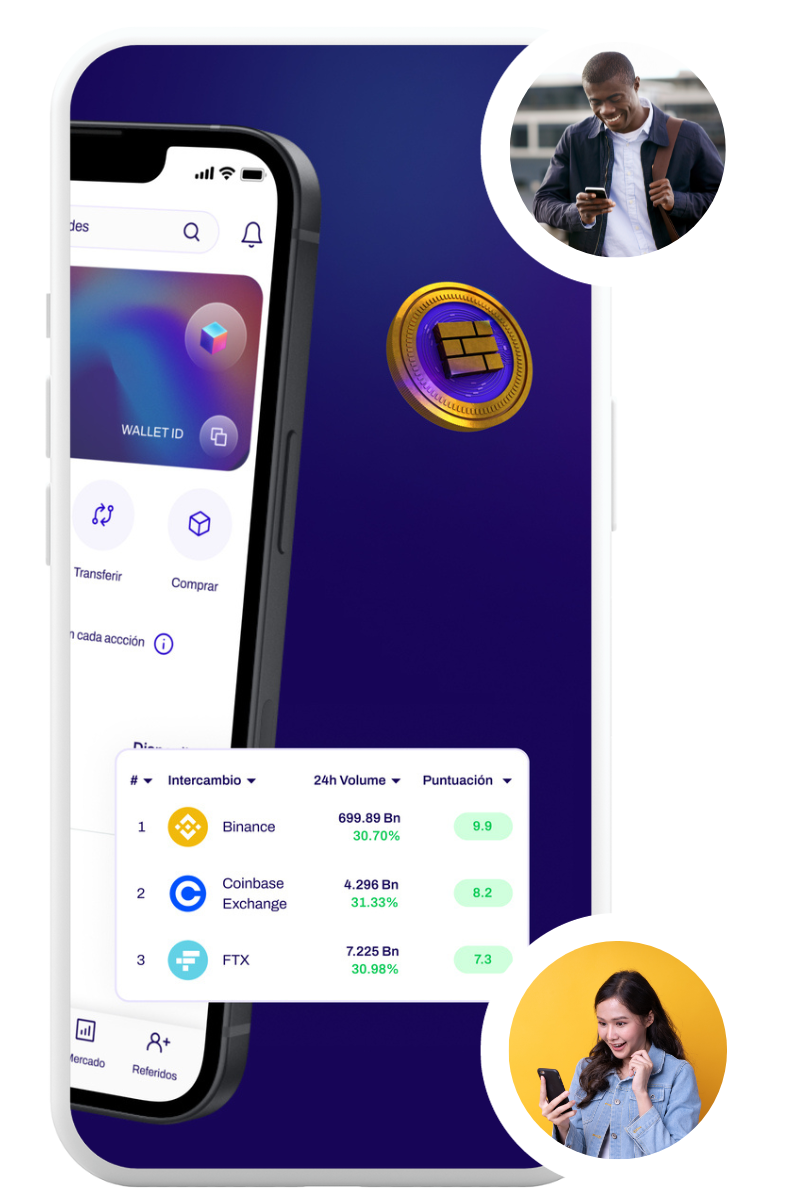
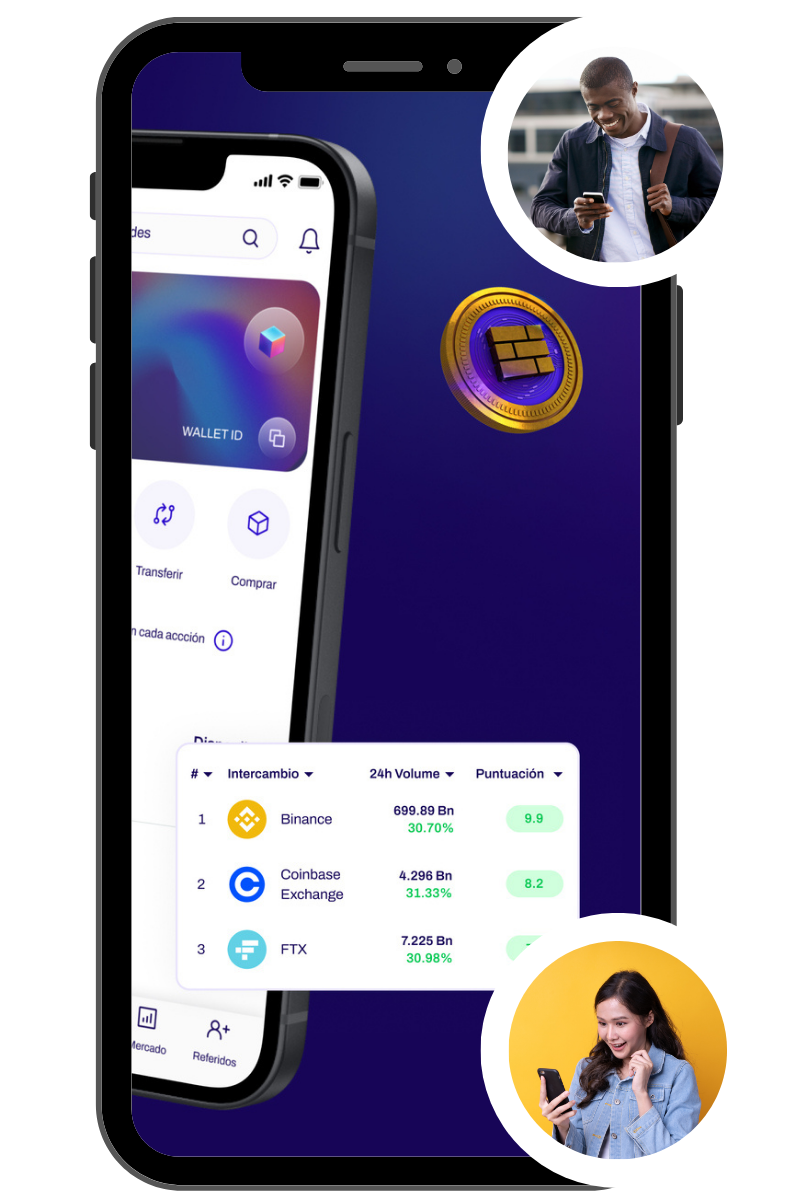
Adding some modifications and new copys

diff --git a/src/sections/home/Ecosystem.tsx b/src/sections/home/Ecosystem.tsx
@@ -39,11 +39,6 @@ const Ecosystem = () => {
         <div className="flex flex-col lg:flex-row gap-20">
           <div className="flex-1 flex flex-col md:flex-row gap-12">
             <div className="flex flex-col justify-center text-white gap-5 z-10">
-              <TypingText
-                element="h3"
-                title="¿Conoces el poder de Blockchain?"
-                textStyles="text-lg sm:text-2xl flex flex-wrap"
-              />
               <FadeText heading="h2" textStyles="" delay={0} direction="right">
                 Nuestro Ecosistema
               </FadeText>
@@ -53,11 +48,10 @@ const Ecosystem = () => {
               >
                 <p>
                   Ebloqs hace todo mas sencillo: accede a las redes más seguras
-                  y fáciles de usar con el costo más bajo de transacción.
+                  y fáciles de usar con bajo costo de transacción. Utilizamos tecnología Blockchain sobre la red Ethereum y subred Polygon.
                 </p>
                 <p>
-                  ¿Tienes conocimiento del universo Crypto? ¡No hay problema!
-                  Haz parte de proyectos en diferentes industrias como las
+                  Forma parte de proyectos en diferentes industrias como
                   bienes raíces, hotelería y turismo, tecnología, automotriz,
                   música, arte y NFTs ¡Entre muchos más!.
                 </p>
@@ -86,11 +80,11 @@ const Ecosystem = () => {
               className="gradient-01"
             />
             <Image
-              src="/images/mockup/6.png"
+              src="/images/mockup/5.png"
               alt="phone"
-              width={400}
-              height={400}
-              className="z-20 w-1/2"
+              width={2500}
+              height={2500}
+              className="z-20 w-[60%]"
             />
 
             <motion.div
@@ -99,7 +93,7 @@ const Ecosystem = () => {
               transition={{ duration: 1 }}
               viewport={{ once: false, amount: 0.9 }}
               style={{ y }}
-              className="absolute right-32 z-20"
+              className="absolute right-36 z-20"
             >
               <Image
                 src={
@@ -136,7 +130,7 @@ const Ecosystem = () => {
               transition={{ duration: 1 }}
               viewport={{ once: false, amount: 0.9 }}
               style={{ y }}
-              className="absolute left-12 top-52 rounded-md bg-[#151a38] bg-opacity-70 flex flex-col pr-12 pl-4 py-2 z-20"
+              className="absolute left-8 top-52 rounded-md bg-[#151a38] bg-opacity-70 flex flex-col pr-12 pl-4 py-2 z-20"
             >
               <Image
                 src={

diff --git a/src/sections/home/ProblemSolution.tsx b/src/sections/home/ProblemSolution.tsx
@@ -12,7 +12,7 @@ import { AiOutlineAlert, AiOutlineBulb } from "react-icons/ai";
 import ecoImg from "public/images/mockup/3.png";
 import { fadeIn, staggerContainer } from "@/utils/animations/motion";
 import blockchain from "public/images/fondo.png";
-import phone from "public/images/mockup/5.png";
+import phone from "public/images/mockup/6.png";
 
 const ProblemSolution = () => {
   const scrollRef = useRef<HTMLDivElement>(null);
@@ -83,12 +83,6 @@ const ProblemSolution = () => {
                   inversionistas multiplicar sus ganancias.
                 </p>
               </li>
-              <li>
-                <p>
-                  Las fuentes de financiamiento cada vez son más limitadas y
-                  costosas
-                </p>
-              </li>
             </ul>
           </section>
         </div>
@@ -105,12 +99,12 @@ const ProblemSolution = () => {
         </motion.div>
         <motion.div
           variants={fadeIn("up", "tween", 0.5, 1)}
-          className="absolute w-1/2"
+          className="absolute w-[45%]"
         >
           <Image
             src={phone}
-            width={1000}
-            height={1000}
+            width={900}
+            height={900}
             alt="phone"
             className="rotate-[5deg]"
           />
@@ -121,7 +115,7 @@ const ProblemSolution = () => {
           transition={{ duration: 1 }}
           style={{ y }}
           viewport={{ once: false, amount: 0.9 }}
-          className="absolute left-40 top-5"
+          className="absolute left-40"
         >
           <Image src={personOne} width={150} height={20} alt="personPhone" />
         </motion.div>

diff --git a/src/utils/constants/projects.js b/src/utils/constants/projects.js
@@ -2,28 +2,28 @@ export const projects = [
     {
         id: 1,
         title: 'NFTs Verde 70',
-        description: 'La reconocida banda de rock  ecuatoriana estrena sus nuevos coleccionables digitales ¡Adquiérelos ahora!',
+        description: 'Reconocida banda de rock ecuatoriana ingresa a la WEB3 con sus NFTs coleccionables. ¡Adquiérelos con beneficios extras en la etapa de Whitelist!',
         image: "/images/verde70.jpeg",
-        investors: 24,
-        goal: '10.000 USD',
+        investors: 85,
+        goal: '/',
         animation: 0.5,
     },
     {
         id: 2,
         title: 'Embassy Suites by Hilton, Guyana',
-        description: 'El yacimiento de grandes cantidades de petróleo en Guyana lo hacen el país ideal para un proyecto hotelero ¡Haz parte ahora!',
+        description: 'El descubrimiento de grandes reservas de petróleo en Guyana, hacen de este país ideal para un proyecto hotelero o ejecutivo ¡Forma parte ahora!',
         image: '/images/guyana.jpeg',
-        investors: 24,
-        goal: '10.000 USD',
+        investors: 350,
+        goal: '/',
         animation: 1,
     },
     {
         id: 3,
         title: 'Próximamente un nuevo proyecto',
-        description: 'Lorem ipsum dolor sit amet, consectetur adip id el aspect',
+        description: 'Bonos de cárbono tokenizados.',
         image: '/images/bonos-carbono.jpeg',
-        investors: 24,
-        goal: '10.000 USD',
+        investors: 2000,
+        goal: '/',
         animation: 1.5,
     }
 ]

diff --git a/src/sections/home/GetStarted.tsx b/src/sections/home/GetStarted.tsx
@@ -62,7 +62,7 @@ const GetStarted = () => {
             <TypingText element="h3" title="| Un mundo de posiblidades" />
 
             <FadeText heading="h2" textStyles="" delay={0} direction="right">
-              ¿Cómo hacer parte de{" "}
+              ¿Cómo ser parte de{" "}
               <span className="gradient-text font-bold">la nueva era</span> de
               inversión?
             </FadeText>
@@ -82,15 +82,10 @@ const GetStarted = () => {
                 </div>
                 <div>
                   <h3 className="text-2xl">{feature.title}</h3>
-                  <p>{feature.content}</p>
+                  <p className="text-2xl">{feature.content}</p>
                 </div>
               </div>
             ))}
-            <Button
-              content="Simula tu inversión"
-              url="#invierte"
-              styleText="mx-auto my-10 z-10"
-            />
           </div>
         </motion.div>
         <motion.div

diff --git a/src/sections/home/HowWorks.tsx b/src/sections/home/HowWorks.tsx
@@ -18,12 +18,12 @@ const HowWorks = () => {
       className={`${styles.paddings} mx-auto flex flex-col gap-8 py-20`}
     >
       <div className={`flex flex-col gap-6 text-center`}>
-        <TypingText element="h3" title="Cómo funciona el dinero" />
+        <TypingText element="h3" title="Cómo funciona nuestra plataforma de inversión" />
         <FadeText heading="h2" textStyles="" delay={0} direction="right">
-          El dinero:{" "}
+          Invertir:{" "}
           <span className="gradient-text font-bold">Antes vs Ahora</span>
         </FadeText>
-        <FadeText heading="p" textStyles="" delay={0} direction="right">
+        <FadeText heading="p" textStyles="text-2xl" delay={0} direction="right">
           Ebloqs facilita el encuentro y la transaccionalidad entre los
           propietarios de activos, proyectos o startups con la gran masa de
           pequeños capitales que está disponible en el mundo entero y que

diff --git a/src/sections/home/TokenEbl.tsx b/src/sections/home/TokenEbl.tsx
@@ -39,7 +39,7 @@ const TokenEbl = () => {
         className={`mx-auto flex flex-col gap-8`}
       >
         <div className={`${styles.flexCenter} flex-col gap-6`}>
-          <TypingText element="h3" title="| Haz parte del futuro" />
+          <TypingText element="h3" title="| Forma parte del futuro" />
           <FadeText
             heading="h2"
             textStyles="flex flex-col items-center gap-5"
@@ -54,7 +54,7 @@ const TokenEbl = () => {
             />
             Token EBL
           </FadeText>
-          <FadeText heading="p" textStyles="" delay={0} direction="right">
+          <FadeText heading="p" textStyles="text-2xl" delay={0} direction="right">
             A partir del lanzamiento de la ICO con la plataforma operativa, esto
             generará alta rentabilidad al EBL que es el combustible del
             ecosistema ebloqs®.

diff --git a/src/components/ProjectCard.jsx b/src/components/ProjectCard.jsx
@@ -2,6 +2,7 @@ import Image from "next/image";
 import React from "react";
 import { motion } from "framer-motion";
 import { fadeIn } from "@/utils/animations/motion";
+import Button from "./Button";
 
 const ProjectCard = ({ title, description, image, investors, goal, animation }) => {
   return (
@@ -19,8 +20,8 @@ const ProjectCard = ({ title, description, image, investors, goal, animation }) 
       <div className="flex px-5 pt-0 pb-5 flex-col gap-3">
         <h4 className="font-bold text-xl">{title}</h4>
         <p>{description}</p>
-        <p>Inversores: {investors}</p>
-        <p>Meta: {goal}</p>
+        <p>Inversión mínima: ${investors} USD</p>
+          <Button content='Descargar Whitepaper' url={goal} styleText='mx-auto my-3'/>
       </div>
     </motion.div>
   );

diff --git a/src/utils/constants/insights.js b/src/utils/constants/insights.js
@@ -1,8 +1,8 @@
 export const startingFeatures = [
     {
         id: 1,
-        title: 'Blockchain',
-        content: 'Invierte en proyectos soportados por la cadena de bloques más segura del mundo.',
+        title: '¿Qué en la actualidad es la Blockchain?',
+        content: 'Invierte en proyectos soportados por la tecnología de cadena de bloques más segura del mundo.',
         icon: '<FaEthereum/>,'
     },
     {
@@ -14,7 +14,7 @@ export const startingFeatures = [
     {
         id: 3,
         title: 'Soporte Legal',
-        content: 'Licencias y documentos en tus inversiones.',
+        content: 'Operamos bajo licencias globales internacionales.',
         icon: '<FaEthereum/>,'
     },
     

diff --git a/src/components/TeamCard.tsx b/src/components/TeamCard.tsx
@@ -28,18 +28,19 @@ const TeamCard = ({
       //   }
       // }}
       // animate={animate}
+      className="flex-1"
       whileHover={{ scale: 1.02 }}
     >
       <motion.div
         variants={fadeIn("up", "tween", animation, 0.5)}
-        className="flex flex-col bg-white gap-0 text-center shadow-md shadow-gray-500 p-5"
+        className="flex-1 flex flex-col bg-white gap-0 text-center shadow-md shadow-gray-500 p-5"
       >
         <div>
           <Image
             src={image}
             width={500}
             height={500}
-            className="w-1/2 mx-auto mb-5"
+            className="w-2/3 mx-auto mb-5"
             alt="imageTeam"
           />
         </div>

diff --git a/src/utils/constants/team.js b/src/utils/constants/team.js
@@ -7,7 +7,7 @@ export const team = [
     {
         id: 1,
         fullname: 'Roberto Betancourt',
-        quote: 'Lorem ipsum dolor sit amet consectetur adipisicing elit. Autem incidunt aspernatur obcaecati magnam sint a odio, eveniet in.',
+        quote: 'Director y Gerente General de varias compañías de consultoría financiera y de negocios, petroleras, constructoras, inmobiliarias.  Emprendedor desde los 17 años con proyectos exitosos y reconocidos a nivel internacional. ¡Hoy enfocado al 100% en escribir la historia del futuro!',
         image: roberto,
         linkedin: '/',
         job: 'CEO',

diff --git a/src/components/layout/Footer.jsx b/src/components/layout/Footer.jsx
@@ -25,7 +25,7 @@ const Footer = () => {
             Ebloqs compañía europea con licencia VASP NTR 4400-1839-5132
           </p>
         </div>
-        <div>Ebloqs derechos reservados</div>
+        <p>Ebloqs derechos reservados. Consulta nuestros <Link className="text-primary-blue" href='https://drive.google.com/file/d/1JkUiDILwH4-eDwfUZs_mD02HUiEiSThX/view?usp=sharing' target="_blank">Términos y condiciones</Link></p>
       </section>
       <div className="footer-gradient" />
       <section className="flex flex-col gap-5">

diff --git a/src/sections/home/Projects.jsx b/src/sections/home/Projects.jsx
@@ -30,7 +30,7 @@ const Projects = () => {
           <FadeText heading="h2" textStyles="" delay={0} direction="right">
             Nuestros proyectos
           </FadeText>
-          <FadeText heading="p" textStyles="" delay={0} direction="right">
+          <FadeText heading="p" textStyles="text-2xl" delay={0} direction="right">
             Escoge tu sector e industria preferida: accede a proyectos novedosos
             impulsados por tecnología Blockchain:
           </FadeText>
